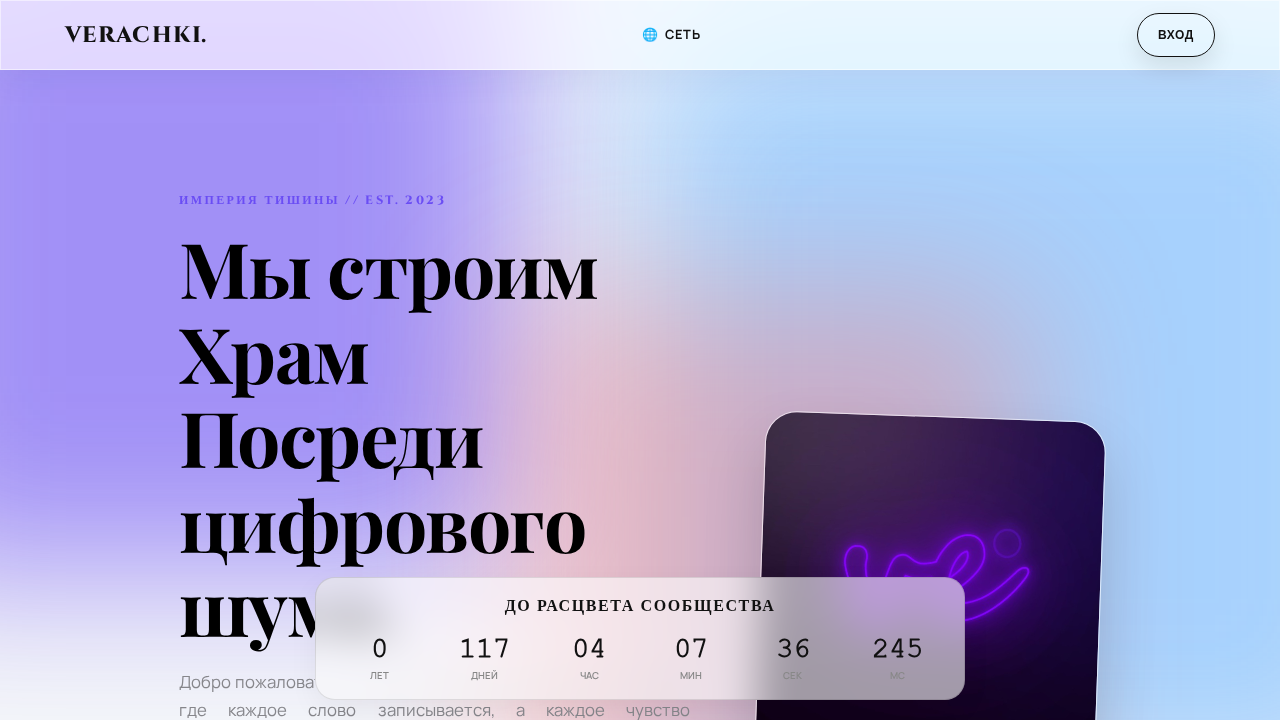
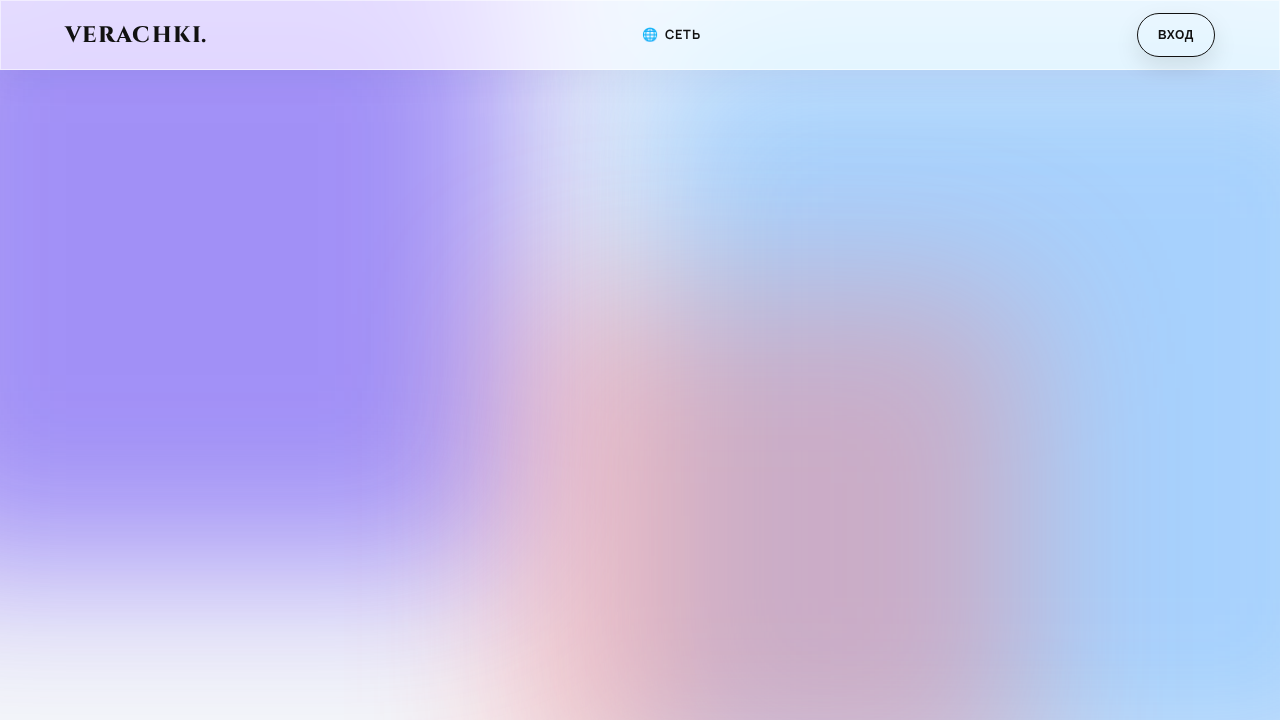
Remove countdown timer from landing page
- Deleted #countdown-timer HTML block from index.html.
- Removed startCountdownTimer, stopCountdownTimer, and associated interval/frame variables from script.js.
- Deleted CSS rules for #countdown-timer and related classes from style.css.
- Verified removal with Playwright and existing test suites.

diff --git a/script.js b/script.js
@@ -201,7 +201,6 @@
             document.querySelector('nav').style.display = 'none';
             document.getElementById('app-interface').classList.remove('hidden');
 
-            stopCountdownTimer();
 
             closeModal('auth-modal');
             loadMessages();
@@ -213,8 +212,6 @@
             }
         }
 
-        function showLanding() {
-            startCountdownTimer();
 
             // MOBILE OPTIMIZATION: Cleanup on exit
             if (state.audioPlayer) {
@@ -1096,83 +1093,3 @@
         }
 
         // COUNTDOWN SYSTEM
-        let countdownInterval = null;
-        let countdownAnimFrame = null;
-
-        function startCountdownTimer() {
-            const timer = document.getElementById('countdown-timer');
-            if (timer) timer.style.display = 'flex';
-
-            if (countdownInterval) return; // Already running
-
-            const targetDate = new Date('2026-06-01T00:00:00').getTime();
-            const elYears = document.getElementById('cd-years');
-            const elDays = document.getElementById('cd-days');
-            const elHours = document.getElementById('cd-hours');
-            const elMinutes = document.getElementById('cd-minutes');
-            const elSeconds = document.getElementById('cd-seconds');
-            const elMs = document.getElementById('cd-ms');
-
-            function updateTime() {
-                const now = new Date();
-                const diff = targetDate - now.getTime();
-
-                if (diff <= 0) {
-                    if (timer) timer.style.display = 'none';
-                    stopCountdownTimer();
-                    return;
-                }
-
-                // Calculate Years (Once per second is fine)
-                let tempDate = new Date(now);
-                let years = 0;
-                while (true) {
-                    tempDate.setFullYear(tempDate.getFullYear() + 1);
-                    if (tempDate.getTime() > targetDate) {
-                        tempDate.setFullYear(tempDate.getFullYear() - 1);
-                        break;
-                    }
-                    years++;
-                }
-
-                const remainingTime = targetDate - tempDate.getTime();
-                const days = Math.floor(remainingTime / (1000 * 60 * 60 * 24));
-                const hours = Math.floor((remainingTime % (1000 * 60 * 60 * 24)) / (1000 * 60 * 60));
-                const minutes = Math.floor((remainingTime % (1000 * 60 * 60)) / (1000 * 60));
-                const seconds = Math.floor((remainingTime % (1000 * 60)) / 1000);
-
-                if(elYears) elYears.innerText = years;
-                if(elDays) elDays.innerText = days;
-                if(elHours) elHours.innerText = hours.toString().padStart(2, '0');
-                if(elMinutes) elMinutes.innerText = minutes.toString().padStart(2, '0');
-                if(elSeconds) elSeconds.innerText = seconds.toString().padStart(2, '0');
-            }
-
-            function updateMs() {
-                const diff = targetDate - Date.now();
-                if (diff <= 0) return;
-                const ms = Math.floor(diff % 1000);
-                if(elMs) elMs.innerText = ms.toString().padStart(3, '0');
-                countdownAnimFrame = requestAnimationFrame(updateMs);
-            }
-
-            updateTime();
-            countdownInterval = setInterval(updateTime, 1000);
-            updateMs();
-        }
-
-        function stopCountdownTimer() {
-            const timer = document.getElementById('countdown-timer');
-            if (timer) timer.style.display = 'none';
-
-            if (countdownInterval) {
-                clearInterval(countdownInterval);
-                countdownInterval = null;
-            }
-            if (countdownAnimFrame) {
-                cancelAnimationFrame(countdownAnimFrame);
-                countdownAnimFrame = null;
-            }
-        }
-
-        startCountdownTimer();

diff --git a/style.css b/style.css
@@ -1143,76 +1143,6 @@
             border-radius: 10px;
         }
 
-        /* Countdown Timer */
-        #countdown-timer {
-            position: fixed;
-            bottom: 20px;
-            left: 50%;
-            transform: translateX(-50%);
-            width: 90%;
-            max-width: 650px;
-            background: rgba(255, 255, 255, 0.6);
-            backdrop-filter: blur(20px);
-            -webkit-backdrop-filter: blur(20px);
-            border: 1px solid rgba(0,0,0,0.1);
-            border-radius: 20px;
-            padding: 15px;
-            box-shadow: 0 10px 30px rgba(0,0,0,0.05);
-            z-index: 400; /* Visible on landing page, below chat interface (500) */
-            text-align: center;
-            display: flex;
-            flex-direction: column;
-            gap: 10px;
-        }
-
-        .countdown-header {
-            font-family: 'Cinzel', serif;
-            font-weight: 800;
-            color: #111;
-            font-size: clamp(0.8rem, 3vw, 1rem);
-            letter-spacing: 0.1em;
-            margin-bottom: 5px;
-        }
-
-        .countdown-grid {
-            display: flex;
-            justify-content: space-around;
-            align-items: center;
-            gap: 5px;
-        }
-
-        .time-block {
-            display: flex;
-            flex-direction: column;
-            align-items: center;
-            min-width: 45px;
-        }
-
-        .time-block span:first-child {
-            font-family: 'Courier New', monospace;
-            font-weight: 700;
-            color: #111;
-            font-size: clamp(1.2rem, 4vw, 1.8rem);
-            line-height: 1;
-        }
-
-        .time-block .label {
-            font-size: clamp(0.5rem, 1.5vw, 0.6rem);
-            color: #888;
-            font-weight: 600;
-            margin-top: 4px;
-        }
-
-        /* Mobile Adjustments */
-        @media (max-width: 400px) {
-            #countdown-timer {
-                padding: 10px;
-                width: 95%;
-                bottom: 10px;
-            }
-            .time-block {
-                min-width: 30px;
-            }
         }
 
         @media (max-width: 768px) {

diff --git a/index.html b/index.html
@@ -341,17 +341,6 @@
         <button class="btn-outline" onclick="logout()" style="margin-top: 20px;">Покинуть</button>
     </div>
 
-    <div id="countdown-timer" class="glass-panel">
-        <div class="countdown-header">ДО РАСЦВЕТА СООБЩЕСТВА</div>
-        <div class="countdown-grid">
-            <div class="time-block"><span id="cd-years">0</span><span class="label">ЛЕТ</span></div>
-            <div class="time-block"><span id="cd-days">0</span><span class="label">ДНЕЙ</span></div>
-            <div class="time-block"><span id="cd-hours">00</span><span class="label">ЧАС</span></div>
-            <div class="time-block"><span id="cd-minutes">00</span><span class="label">МИН</span></div>
-            <div class="time-block"><span id="cd-seconds">00</span><span class="label">СЕК</span></div>
-            <div class="time-block"><span id="cd-ms">000</span><span class="label">МС</span></div>
-        </div>
-    </div>
 
     <script src="script.js" defer></script>
 </body>
